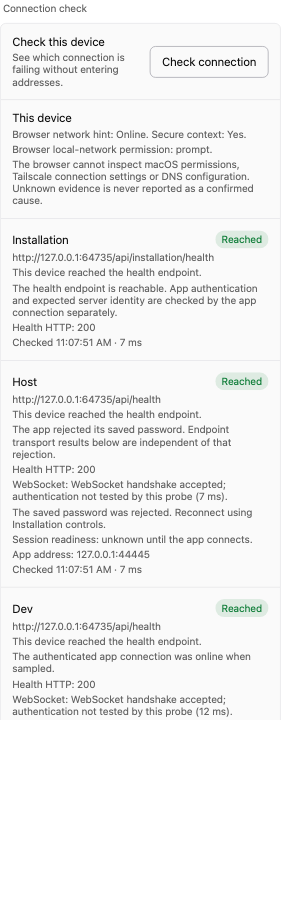
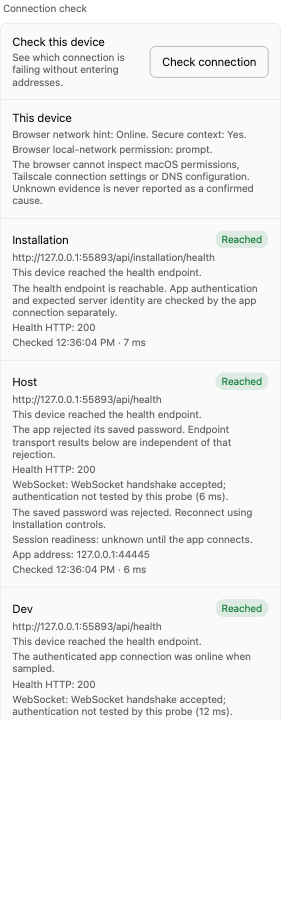
Keep the shared library copy of duplicate skills
When one environment holds different copies of a skill in several tools'
folders, the first shared-settings migration keeps the copy in
~/.agents/skills instead of asking the owner.

Closes #52

diff --git a/packages/server/src/server/execution-installation/settings/skill-catalog.ts b/packages/server/src/server/execution-installation/settings/skill-catalog.ts
@@ -23,6 +23,7 @@ export async function collectInstallationSkills(
   if (result.inventory.roots.some((root) => root.status === "error"))
     throw new Error("Skill discovery is incomplete; preserve the existing catalog");
   const definitions: InstallationSkill[] = [];
+  const paths = new Map<string, string>();
   for (const skill of result.inventory.skills) {
     if (skill.owner !== "personal") continue;
     if (skill.issues.length || !skill.sha256)
@@ -42,8 +43,30 @@ export async function collectInstallationSkills(
       )
     )
       definitions.push(definition);
+    paths.set(definition.identity, skill.path);
   }
-  return definitions.toSorted((left, right) => left.identity.localeCompare(right.identity));
+  return preferSharedLibraryCopies(definitions, paths).toSorted((left, right) =>
+    left.identity.localeCompare(right.identity),
+  );
+}
+
+/**
+ * One environment can hold different copies of a skill in several tools' folders. The
+ * shared library lives in `~/.agents/skills`, so its copy wins without asking the owner;
+ * only names with no copy there still need a choice.
+ */
+function preferSharedLibraryCopies(
+  definitions: InstallationSkill[],
+  paths: ReadonlyMap<string, string>,
+): InstallationSkill[] {
+  const shared = (definition: InstallationSkill) =>
+    /[\\/]\.agents[\\/]skills[\\/]/.test(paths.get(definition.identity) ?? "");
+  return definitions.filter((definition) => {
+    const sameName = definitions.filter((other) => other.name === definition.name);
+    if (sameName.length < 2) return true;
+    const canonical = sameName.filter(shared);
+    return canonical.length === 1 ? canonical[0] === definition : true;
+  });
 }
 
 /** Every variant is retained in protected storage before a canonical choice can be made. */

diff --git a/packages/server/src/server/execution-installation/settings/runtime.test.ts b/packages/server/src/server/execution-installation/settings/runtime.test.ts
@@ -194,6 +194,34 @@ test("shared skill collection preserves both environments and reports conflictin
   }
 });
 
+test("one environment's different copies of a skill keep the shared library's copy", async () => {
+  const directory = mkdtempSync(path.join(os.tmpdir(), "installation-skill-duplicates-"));
+  try {
+    const store = new InstallationSkillPackages(path.join(directory, "packages"));
+    const home = path.join(directory, "host");
+    for (const [folder, body] of [
+      [".agents/skills", "shared library copy"],
+      [".codex/skills", "Codex copy with extras"],
+    ]) {
+      const target = path.join(home, folder, "writing");
+      mkdirSync(target, { recursive: true });
+      writeFileSync(
+        path.join(target, "SKILL.md"),
+        `---\nname: writing\ndescription: writing\n---\n${body}\n`,
+      );
+    }
+    const library = new SkillLibrary(path.join(home, "state"), home);
+    const collected = await collectInstallationSkills(
+      { readSkillLibrary: (request) => library.read(request) },
+      store,
+    );
+    expect(collected.filter((entry) => entry.name === "writing")).toHaveLength(1);
+    expect(mergeInstallationSkills({ host: collected }).conflicts).toEqual([]);
+  } finally {
+    rmSync(directory, { recursive: true, force: true });
+  }
+});
+
 test("shared skill projection installs verified content and provider discovery without repeated writes", async () => {
   const directory = mkdtempSync(path.join(os.tmpdir(), "installation-skill-projection-"));
   try {

diff --git a/VORTEO_CHANGELOG.md b/VORTEO_CHANGELOG.md
@@ -4,6 +4,12 @@ Vorteo change history, covering features, fixes, documentation, tests, tooling a
 
 The initial baseline is cumulative; older entries do not cover every maintenance commit. Historical version labels are preserved. Paseo release history remains in the [upstream changelog](CHANGELOG.md); the [customizations inventory](docs/vorteo-customizations.md) describes current fork capabilities and limitations.
 
+## 0.11.0-beta.3.vorteo.950 - 2026-10-30
+
+### Fixed
+
+- A new installation no longer asks the owner to resolve skills when one machine holds different copies of a skill in several tools' folders: the copy in `~/.agents/skills`, the shared library's folder, is kept (#52).
+
 ## 0.11.0-beta.3.vorteo.949 - 2026-10-30
 
 ### Fixed

diff --git a/docs/vorteo-customizations.md b/docs/vorteo-customizations.md
@@ -1,5 +1,7 @@
 # Vorteo customizations beyond Paseo
 
+Maintenance review (2026-10-30): first full real install (Dev in gate mode plus Tailscale) passed acceptance; prefer the shared library copy of duplicate skills within one environment. README unchanged.
+
 Maintenance review (2026-10-30): fix installer stop handling and gate network reuse found during real installs. README unchanged.
 
 Maintenance review (2026-10-30): first real Host-only local install and uninstall on macOS passed; fix the `vorteo` command's source lookup and uninstall progress titles. README unchanged.
